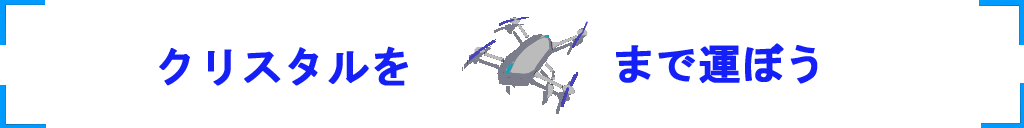
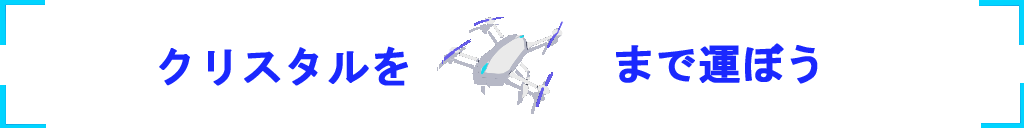
tutorial

diff --git a/Solution/App/SceneStage.h b/Solution/App/SceneStage.h
@@ -21,6 +21,7 @@ private:
 	void drawUIDelivery( );
 	void drawUILinKGauge( );
 	void drawUIMap( ) const;
+	void drawTutorial( ) const;
 	void drawGuideLine( Vector distance ) const;
 	void retry( );
 	Scene::NEXT NextRetry( );
@@ -40,6 +41,9 @@ private:
 	};
 private:
 	int _choice_count;
+	int _tutorial_count;
+	int _crystal_catch_count;
+	bool _tutorial;
 	ModelPtr _guideline;
 	NUMBER _phase_number[ 2 ];
 	NUMBER _delivery_number[ 2 ];

diff --git a/Solution/Common/define.h b/Solution/Common/define.h
@@ -82,6 +82,8 @@ enum GRAPH {
 	GRAPH_CONTROLLER_NEUTRAL,
 	GRAPH_CONTROLLER_ROTATION,
 	GRAPH_CONTROLLER_TRANSLATION,
+	GRAPH_TUTORIAL_CRYSTAL,
+	GRAPH_TUTORIAL_DELIVERY,
 	GRAPH_RESULT_FRAME,
 	GRAPH_FRAME,
 	GRAPH_OK,

diff --git a/Solution/App/Roomba.h b/Solution/App/Roomba.h
@@ -39,7 +39,6 @@ public:
 	void reset( );
 	void setWaitCount( );
 	void finalize( );
-	void retry( );
 	double getRotSpeed( ) const;
 	const double getMaxSpeed( ) const;
 	Vector getDir( ) const;

diff --git a/Solution/App/Game.cpp b/Solution/App/Game.cpp
@@ -19,7 +19,7 @@ GamePtr Game::getTask( ) {
 }
 
 Game::Game( ) :
-_next( Scene::NEXT_STAGE ),
+_next( Scene::NEXT_STAGE_SELECT ),
 _stage_num( 0 ),
 _result_time( 0 ),
 _stage_clear( false ) {
